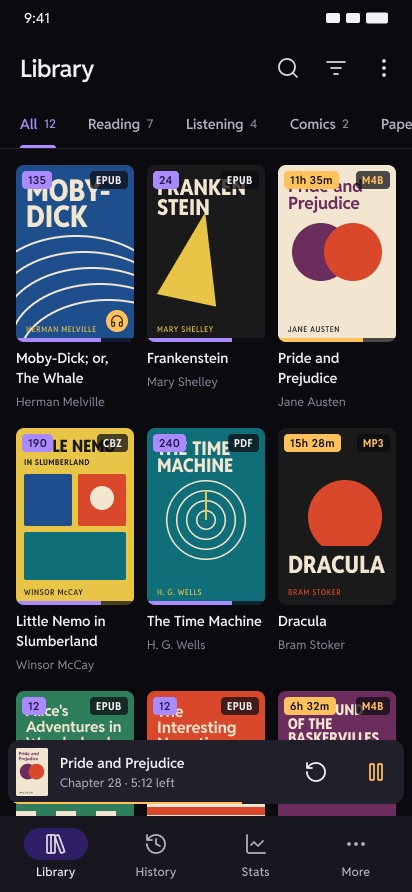
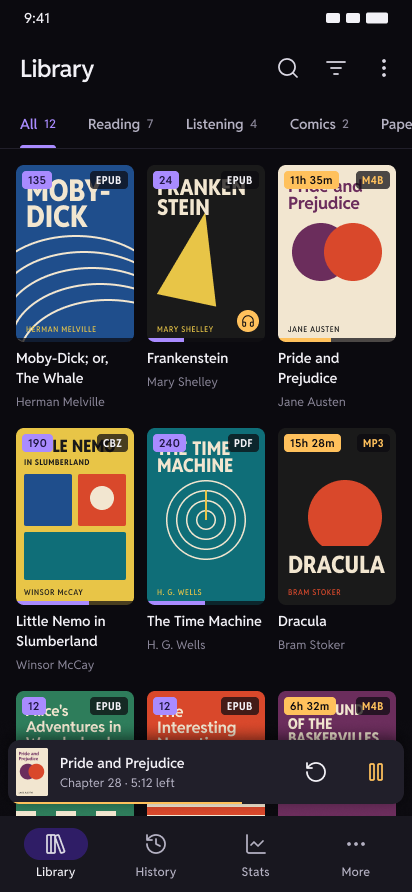
Apply review fixes: phase labels, sentence highlight, progress, pair moved to Frankenstein

diff --git a/design/demo-library.md b/design/demo-library.md
@@ -4,8 +4,8 @@ All titles are public domain except "Orb-weaver silk mechanics", which stands in
 
 | # | Title | Author | Type | Format | Count badge | Status | Progress |
 |---|---|---|---|---|---|---|---|
-| 1 | Moby-Dick; or, The Whale | Herman Melville | ebook + audio pair | EPUB (+ M4B, 24h 50m) | 135 chapters | reading | 1% (chapter 1, narration at 5% of the chapter) |
-| 2 | Frankenstein | Mary Shelley | ebook | EPUB | 24 chapters | reading | 31% |
+| 1 | Moby-Dick; or, The Whale | Herman Melville | ebook | EPUB | 135 chapters | reading | 1% (chapter 1; on-device narration at 5% of the chapter) |
+| 2 | Frankenstein | Mary Shelley | ebook + audio pair | EPUB (+ M4B) | 24 chapters | reading | 31% |
 | 3 | Pride and Prejudice | Jane Austen | audio | M4B | 11h 35m | reading | 45% |
 | 4 | Little Nemo in Slumberland | Winsor McCay | comic | CBZ | 190 pages | reading | page 118 of 190 (62%) |
 | 5 | The Time Machine | H. G. Wells | pdf | PDF | 240 pages | reading | page 118 of 240 (49%) on the phone; page 210 (88%) on the tablet |
@@ -19,7 +19,7 @@ All titles are public domain except "Orb-weaver silk mechanics", which stands in
 
 ## Derived numbers
 
-- Shelf counts: All 12; Reading 7 (1, 2, 3, 4, 5, 8, 10); Listening 4 (1, 3, 6, 9); Comics 2 (4, 11); Papers 1 (10). Finished: 2 (7, 12).
+- Shelf counts: All 12; Reading 7 (1, 2, 3, 4, 5, 8, 10); Listening 4 (2, 3, 6, 9); Comics 2 (4, 11); Papers 1 (10). Finished: 2 (7, 12).
 - Pride and Prejudice: 61 chapters, 11h 35m = 695 min. 45% = 313 min = 5h 13m played, 6h 22m left. Now in chapter 28 (12:40 long), at 7:28, so 5:12 left in the chapter; the chapter scrubber shows 12 minute ticks.
 - Time Machine sync prompt: 118 / 240 = 49%; 210 / 240 = 88%.
 - Stats week: reading 30 + 45 + 20 + 60 + 35 + 42 + 20 = 252 min = 4h 12m; listening 50 + 40 + 65 + 30 + 70 + 60 + 50 = 365 min = 6h 05m; total 617 min = 10h 17m.
@@ -27,5 +27,5 @@ All titles are public domain except "Orb-weaver silk mechanics", which stands in
 
 ## Text on screen
 
-- Read-along demo: Moby-Dick, chapter 1 ("Loomings"), paragraph beginning "It is a way I have of driving off the spleen".
+- Read-along demo: Moby-Dick, chapter 1 ("Loomings"), paragraph beginning "It is a way I have of driving off the spleen", cut with an ellipsis after "knocking people's hats off" so the original punctuation is never altered. The highlighted sentence starts at "Whenever".
 - Reading buddy samples: opening lines of Moby-Dick, Frankenstein (chapter 5), Alice, Pride and Prejudice and The Hound of the Baskervilles.
